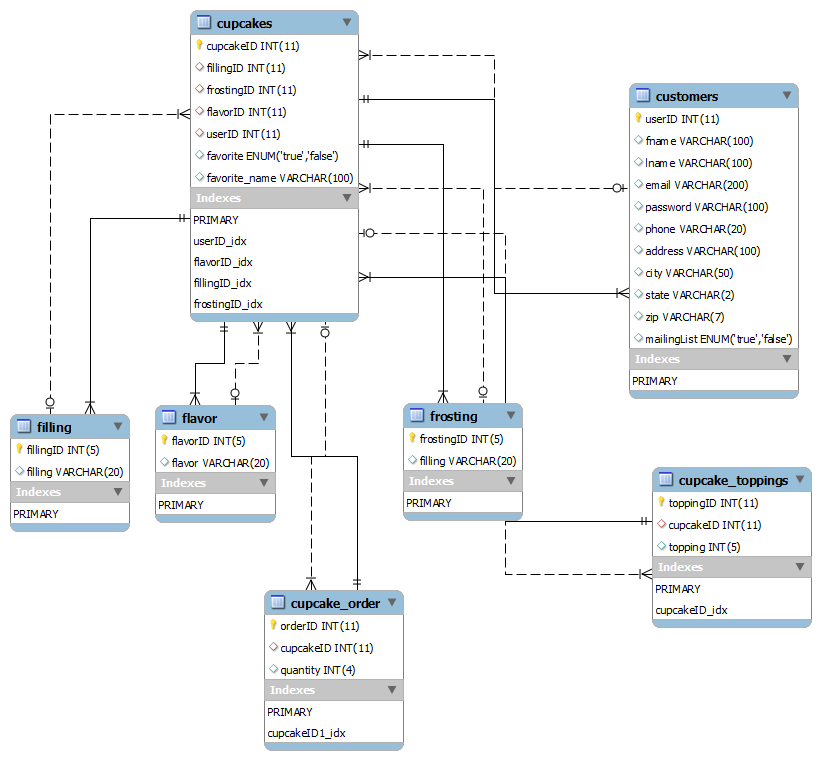
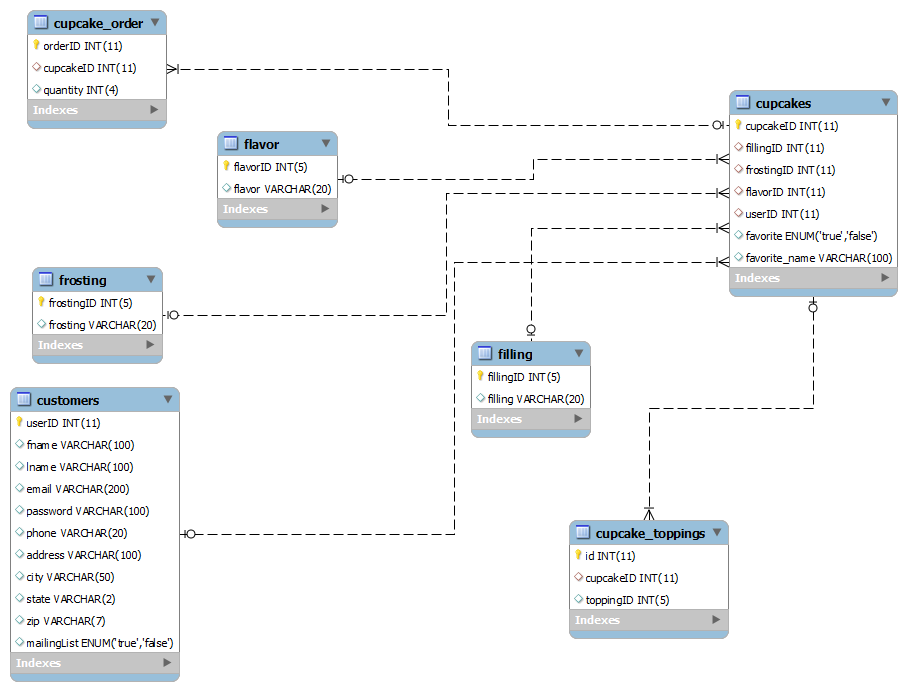
added ajax.php functions, corrected foreign keys in database

diff --git a/web-src/ajax.php b/web-src/ajax.php
@@ -64,19 +64,42 @@ if (isset($_GET['action'])) {
         $newitem = array('details' => array('icing' => $_POST['icing'], 'flavor' => $_POST['flavor'], 'filling' => $_POST['filling'], 'toppings' => $_POST['toppings']), 'quantity' => 1);
 
         mysql_query('INSERT INTO cupcakes (fillingID,frostingID,flavorID,userID,favorite,favorite_name) values("' . $_POST['filling'] . '","' . $_POST['icing'] . '","' . $_POST['flavor'] . '","' . $_SESSION['userdata']['userID'] . '","true","' . $_POST['favorite_name'] . '"') or die(mysql_error());
-    } elseif ($_REQUEST['action'] == "placeorder") {
+    
+    } elseif($_REQUEST['action'] == "getfavoritesjson"){
+        $jsonarray=array();
+        $query = 'SELECT flavor.flavor,filling.filling,frosting.frosting FROM cupcakes join flavor on cupcakes.flavorID=flavor.flavorID join filling on cupcakes.fillingID=filling.fillingID 
+            join frosting on cupcakes.frostingID=frosting.frostingID
+            WHERE cupcakes.userID="'.$_SESSION['userdata']['userID'].'" and cupcakes.favorite="true"';
+        $result=mysql_query($query);
         
+        $query = 'SELECT cupcake_toppings.toppingID from cupcakes join toppings on toppings.cupcakeID=cupcakes.cupcakeID where cupcakes.userID="'.$_SESSION['userdata']['userID'].'" and cupcakes.favorite="true"';
+        $result2=mysql_query($query);
         
-        //take all the stuff in the cart and shove it into the database
-        for ($i = 0; $i < count($_SESSION['cart']); $i++) {
-            
-            //first add the cupcake into the database
-            mysql_query('INSERT INTO cupcakes (fillingID,frostingID,flavorID,userID,favorite) values("' . $_SESSION['cart'][$i]['details']['filling'] . '","' . $_SESSION['cart'][$i]['details']['icing'] . '","' . $_SESSION['cart'][$i]['details']['flavor'] . '","' . $_SESSION['userdata']['userID'] . '","false"') or die(mysql_error());
-            mysql_query('INSERT INTO cupcake_order (cupcakeID,quantity) values("'.mysql_insert_id().'","'.$_SESSION['cart'][$i]['quantity'].'")') or die(mysql_error());
-            
+        for($i=0;$row=mysql_fetch_assoc($result);$i++){
+            $jsonarray[$i] = $row;
+            while($toppingrow=mysql_fetch_assoc($result2)){
+                $jsonarray[$i]['toppings'][] = $toppingrow['toppingID'];
+            }
             
         }
+        echo json_encode($json_array);
         
+    } elseif ($_REQUEST['action'] == "placeorder") {
+
+        if (count($_SESSION['cart']) > 0) {
+            //take all the stuff in the cart and shove it into the database as an order
+            for ($i = 0; $i < count($_SESSION['cart']); $i++) {
+                //first add the cupcake into the database
+                mysql_query('INSERT INTO cupcakes (fillingID,frostingID,flavorID,userID,favorite) values("' . $_SESSION['cart'][$i]['details']['filling'] . '","' . $_SESSION['cart'][$i]['details']['icing'] . '","' . $_SESSION['cart'][$i]['details']['flavor'] . '","' . $_SESSION['userdata']['userID'] . '","false"') or die(mysql_error());
+                mysql_query('INSERT INTO cupcake_order (cupcakeID,quantity) values("' . mysql_insert_id() . '","' . $_SESSION['cart'][$i]['quantity'] . '")') or die(mysql_error());
+            }
+            
+            //output 1 for success
+            echo "1";
+            
+            //empty the cart
+            $_SESSION['cart']=array();
+        }
     }
 }
 ?>
